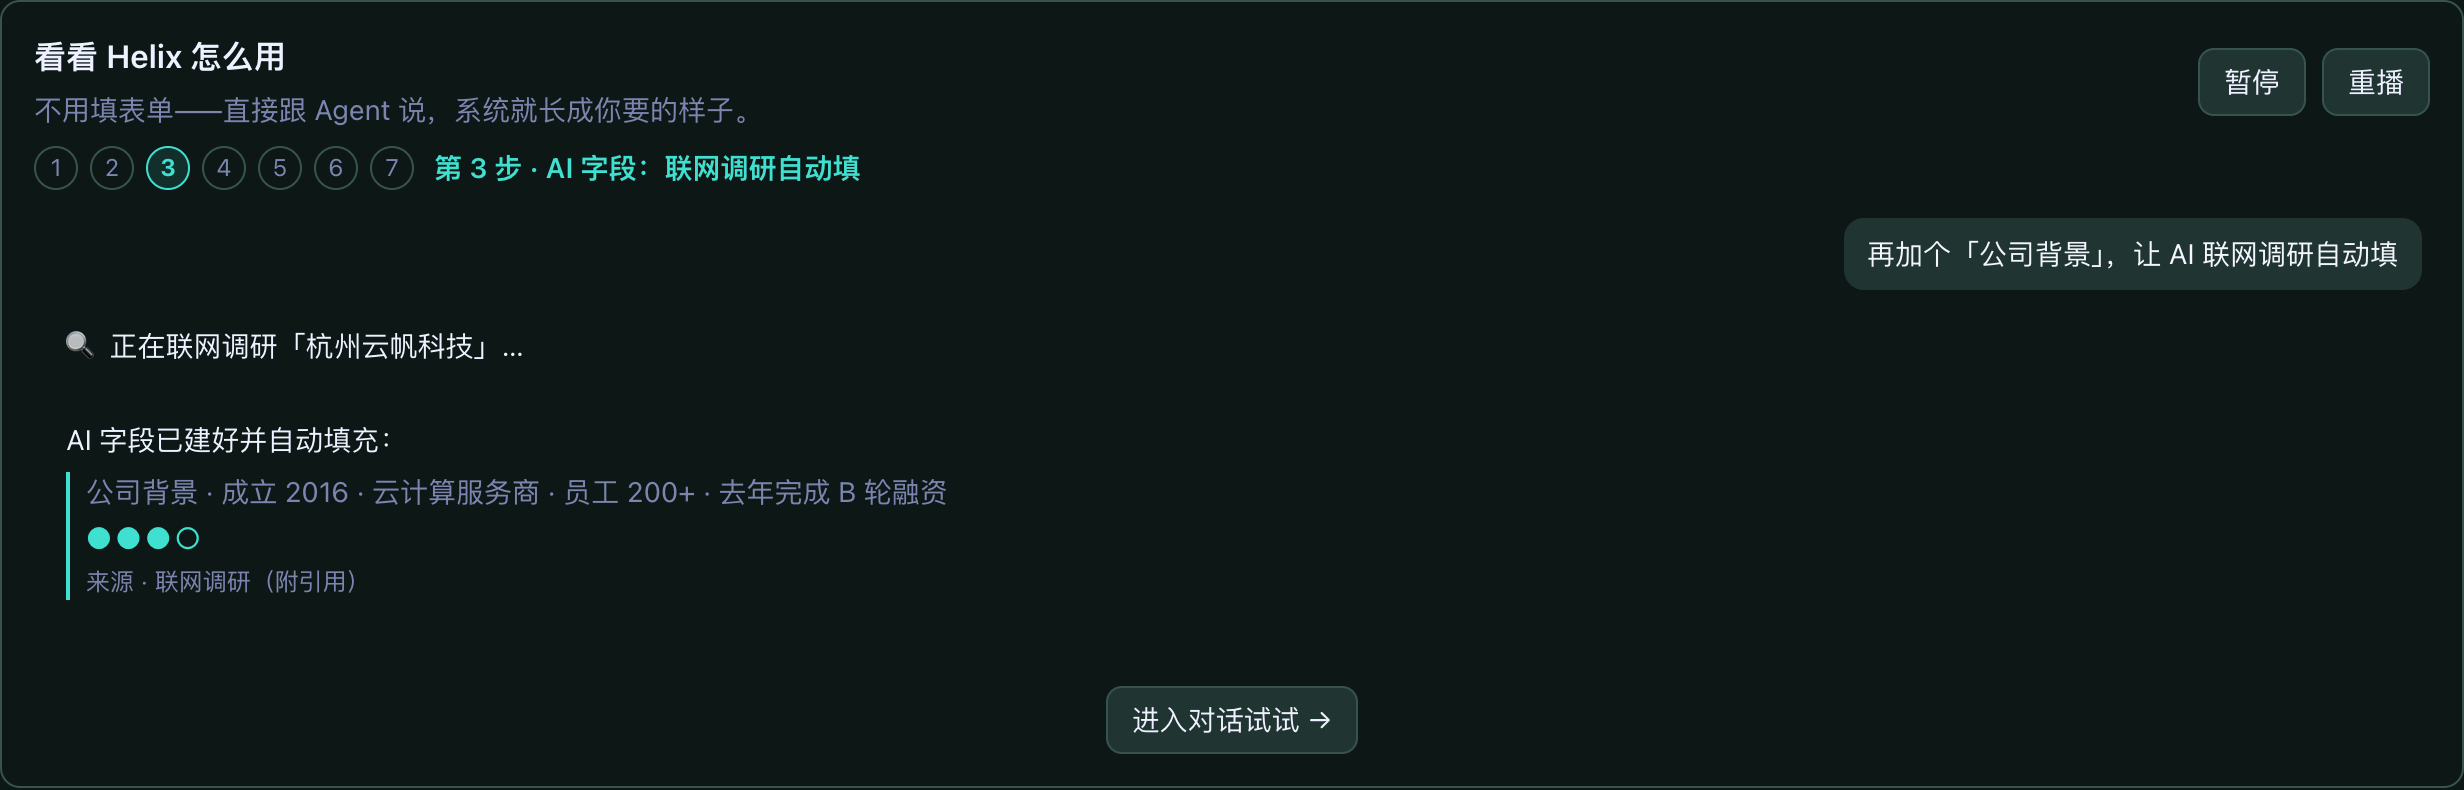
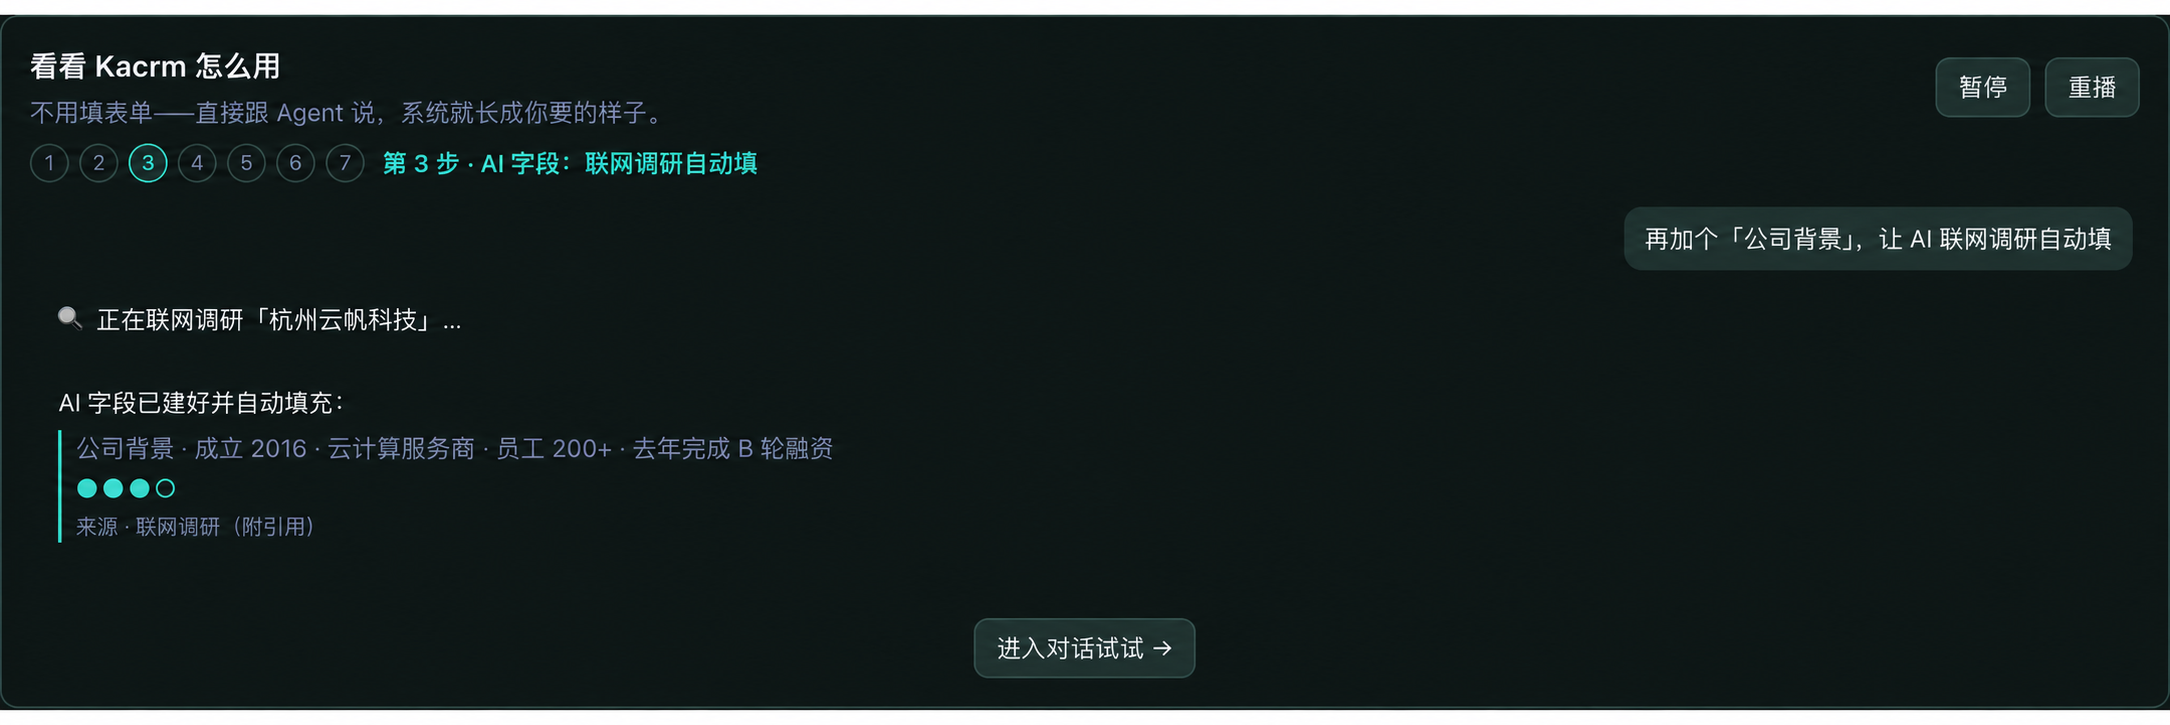
docs: replace legacy branding in user guides and illustrations

diff --git a/docs/user-guide.html b/docs/user-guide.html
@@ -1,4 +1,4 @@
-<!doctype html><html lang="zh-CN"><head><meta charset="utf-8"><title>KaCRM 使用指南</title><style>
+<!doctype html><html lang="zh-CN"><head><meta charset="utf-8"><title>Kacrm 使用指南</title><style>
   @page{size:A4;margin:16mm 15mm}
   *{box-sizing:border-box}
   html{font-family:"Hiragino Sans GB","PingFang SC","Microsoft YaHei",sans-serif;color:#1f2330;font-size:11pt;line-height:1.72}
@@ -53,16 +53,16 @@
       <path d="M62 40 A20 20 0 0 1 18 40" stroke-width="4.3"/><path d="M18 40 A15 15 0 0 1 52 40" stroke-width="3.1"/>
       <path d="M52 40 A10 10 0 0 1 26 40" stroke-width="2.2"/></g></svg></div>
   <div class="kick">■ 为销售型组织打造的下一代 CRM</div>
-  <h1>KaCRM</h1>
+  <h1>Kacrm</h1>
   <div class="t2">使用指南</div>
   <div class="tag">对话即数据 · AI 驱动 · 越用越懂你的销售打法</div>
-  <div class="meta">整理日期 2026-10-13　·　KaCRM 使用指南<br>本手册覆盖核心界面功能:对话、CRM、看板、AI Agent、任务与系统管理</div>
+  <div class="meta">整理日期 2026-10-13　·　Kacrm 使用指南<br>本手册覆盖核心界面功能:对话、CRM、看板、AI Agent、任务与系统管理</div>
 </div>
 
 <!-- 目录 -->
 <div class="sec">
 <h2><span class="n">目录</span></h2>
-<div class="note">本指南整理自项目已有使用手册。截图为历史版本示例，截图中的旧模型、品牌文案及页面细节以当前 KaCRM 实际界面为准。部署与升级请参阅仓库的部署文档；本仓库不附带界面导览视频。</div>
+<div class="note">本指南整理自项目已有使用手册。截图为历史版本示例，截图中的旧模型及页面细节以当前 Kacrm 实际界面为准。部署与升级请参阅仓库的部署文档；本仓库不附带界面导览视频。</div>
 <div class="toc">
   <div><b>1.</b> 产品简介与核心理念</div>
   <div><b>2.</b> 快速开始与界面总览</div>
@@ -80,7 +80,7 @@
 <!-- 1 -->
 <div class="sec pagebreak">
 <h2><span class="n">1</span>产品简介与核心理念</h2>
-<p>KaCRM 是一款<b>会进化的对话式 AI CRM</b>。传统 CRM 为「管理层填报」设计,要求销售把客户关系压缩进冰冷字段;KaCRM 反过来为「销售成交」设计——每位销售拥有专属智能体,用自然语言即可完成记录、跟进与商机管理,系统自动沉淀全渠道沟通为客户资产,并每天主动提醒该跟进谁。</p>
+<p>Kacrm 是一款<b>会进化的对话式 AI CRM</b>。传统 CRM 为「管理层填报」设计,要求销售把客户关系压缩进冰冷字段;Kacrm 反过来为「销售成交」设计——每位销售拥有专属智能体,用自然语言即可完成记录、跟进与商机管理,系统自动沉淀全渠道沟通为客户资产,并每天主动提醒该跟进谁。</p>
 <h3>五大根本转变</h3>
 <table>
   <tr><th style="width:22%">能力</th><th>说明</th></tr>
@@ -91,7 +91,7 @@
   <tr><td class="cyan">⑤ 它会自己上班</td><td>每天清晨自动盯商机、生成跟进清单推送到微信 / 飞书</td></tr>
 </table>
 <div class="fig" style="background:#0A0E27"><img src="../assets/readme/architecture.png"></div>
-<div class="figcap">图 1-1　KaCRM 产品架构:触点层 → AI Agent 核心 → CRM 数据资产 → 洞察与教练</div>
+<div class="figcap">图 1-1　Kacrm 产品架构:触点层 → AI Agent 核心 → CRM 数据资产 → 洞察与教练</div>
 </div>
 
 <!-- 2 -->
@@ -99,7 +99,7 @@
 <h2><span class="n">2</span>快速开始与界面总览</h2>
 <h3>2.1 登录</h3>
 <ol>
-  <li>打开 KaCRM 访问地址,进入登录页。</li>
+  <li>打开 Kacrm 访问地址,进入登录页。</li>
   <li>输入管理员分配的<b>邮箱 / 用户名</b>与<b>密码</b>,点击「登录」。</li>
   <li>首次登录后,系统自动为你创建专属的 AI 工作档案(Profile)。</li>
 </ol>
@@ -108,7 +108,7 @@
 <div class="tip">账号由管理员在「用户管理」中创建并分配角色权限;忘记密码请联系管理员重置。界面右下角账号菜单可随时<b>切换中文 / English</b>。</div>
 <h3>2.2 首次设置向导(3 步)</h3>
 <p>首次登录后,系统会自动带你进入<b>「先完成 3 步设置」向导</b>(也可随时访问 <code>/app/setup</code>)。配好后即可在网页和聊天软件里与你的 Agent 对话。</p>
-<p>向导页顶部有<b>三个标签</b>:<b>「快速设置」</b>(默认,即下方三步)、<b>「对话演示」</b>、<b>「CRM 界面导览」</b>——先在「快速设置」配好,再随时点另两个标签看 KaCRM 怎么用。</p>
+<p>向导页顶部有<b>三个标签</b>:<b>「快速设置」</b>(默认,即下方三步)、<b>「对话演示」</b>、<b>「CRM 界面导览」</b>——先在「快速设置」配好,再随时点另两个标签看 Kacrm 怎么用。</p>
 <div class="fig"><img src="../assets/user-guide/screens/19-setup-wizard.png"></div>
 <div class="figcap">图 2-2　首次设置向导「快速设置」标签:① 模型 ② 通道 ③ 快捷操作(顶部可切「对话演示 / CRM 界面导览」)</div>
 <table>
@@ -128,7 +128,7 @@
 </table>
 <p>后两项是管理操作:<b>没有相应权限时按钮自动隐藏</b>,普通成员通常只看到「设置主题」和「切换语言」。</p>
 <p>页头右上角:「<b>进入对话 →</b>」可随时跳过向导直接开始;有 CRM 权限的用户还会看到「<b>进入 CRM →</b>」,一键直达客户管理主界面。通道也能稍后在「我的 Agent」里补。</p>
-<p><b>「对话演示」标签</b>——自动播放的模拟对话导览,8 步讲完 KaCRM 的核心用法:</p>
+<p><b>「对话演示」标签</b>——自动播放的模拟对话导览,8 步讲完 Kacrm 的核心用法:</p>
 <table>
   <tr><th style="width:14%">步骤</th><th>演示内容</th></tr>
   <tr><td>① 线索转化</td><td>「新增线索:杭州云帆科技、张总,对私有化方案有意向,帮我转成客户和商机」——一句话走完销售漏斗入口:线索 → 客户 + 联系人 + 商机。</td></tr>
@@ -143,7 +143,7 @@
 <p>演示顶部有 <b>7 个章节圆点</b>,点哪一步就跳到哪一步,也可随时「暂停 / 重播」;看完点「进入对话试试 →」即可亲手体验。</p>
 <div class="fig"><img src="../assets/user-guide/screens/20-setup-demo.png"></div>
 <div class="figcap">图 2-3　「对话演示」八步导览(图为第 3 步:AI 字段联网调研自动填,含置信度与来源)</div>
-<p><b>「CRM 界面导览」标签</b>——一段约两分半的<b>真实操作录屏</b>(带中英章节字幕,随界面语言切换),让你在动手前先看到:对话之外,KaCRM 还有一整套顺手的管理界面。八个章节依次演示:</p>
+<p><b>「CRM 界面导览」标签</b>——一段约两分半的<b>真实操作录屏</b>(带中英章节字幕,随界面语言切换),让你在动手前先看到:对话之外,Kacrm 还有一整套顺手的管理界面。八个章节依次演示:</p>
 <table>
   <tr><th style="width:16%">章节</th><th>演示内容</th></tr>
   <tr><td>① 客户列表</td><td>搜索、业务分段、我的 / 团队 / 全部数据范围切换。</td></tr>
@@ -169,17 +169,17 @@
   <tr><td>账号菜单 · 工作</td><td>待我审批、审批中心、待认领消息、记忆库、任务</td></tr>
   <tr><td>账号菜单 · 管理(管理员)</td><td>用户管理、部门管理、角色权限、字段与 Schema、新用户模板、用量统计、导出审计</td></tr>
 </table>
-<p>导航栏顶部的 KaCRM 图标显示你的 Agent 进程状态:<b>绿点</b>=运行正常,<b>红点</b>=未运行(点击进入设置)。</p>
+<p>导航栏顶部的 Kacrm 图标显示你的 Agent 进程状态:<b>绿点</b>=运行正常,<b>红点</b>=未运行(点击进入设置)。</p>
 
 <h3>2.4 不会用?直接问 AI(内置使用助手)</h3>
-<p>KaCRM 内置了<b>「使用助手」</b>——遇到任何"怎么用 / 在哪里 / 为什么"的问题,<b>不用翻手册,直接问 AI 即可</b>。在网页「对话」里,或在你已接入的<b>飞书 / 微信</b>等渠道里,直接发问:</p>
+<p>Kacrm 内置了<b>「使用助手」</b>——遇到任何"怎么用 / 在哪里 / 为什么"的问题,<b>不用翻手册,直接问 AI 即可</b>。在网页「对话」里,或在你已接入的<b>飞书 / 微信</b>等渠道里,直接发问:</p>
 <ul>
   <li>「怎么在看板上加一个图表?」</li>
   <li>「飞书怎么接进来?」</li>
   <li>「改了技能为什么没生效?」</li>
 </ul>
 <p>AI 会即时给出操作步骤。可以把它理解成<b>这份指南的"活版本"</b>:随产品更新、随时可问、所有渠道通用。</p>
-<p>而且它会<b>自我成长</b>:遇到手册暂时没覆盖的问题,它会查证后把通用答案沉淀进自己的知识里——<b>问的人越多、它越全</b>,和 KaCRM 的技能一样越用越懂。</p>
+<p>而且它会<b>自我成长</b>:遇到手册暂时没覆盖的问题,它会查证后把通用答案沉淀进自己的知识里——<b>问的人越多、它越全</b>,和 Kacrm 的技能一样越用越懂。</p>
 </div>
 
 <!-- 3 -->
@@ -323,7 +323,7 @@
 </table>
 <div class="note">可将某渠道设为「主渠道」作为定时推送默认投递地址。微信若长时间无对话,清晨推送可能被平台拦截,建议同时绑定飞书或每天主动发一条消息保活。</div>
 <h4>接入后怎么用(重点)</h4>
-<p>接通后,这个渠道就成了你的「随身 KaCRM」—— 不打开网页也能干活:</p>
+<p>接通后,这个渠道就成了你的「随身 Kacrm」—— 不打开网页也能干活:</p>
 <ul>
   <li><b>直接对话办事</b>:在飞书 / 微信里像聊天一样发指令,如「给腾讯这条商机加条跟进」「本周该跟进哪些客户」「把江南精密阶段改成方案确认」,Agent 当场完成对应 CRM 操作并回复你(高风险动作仍先经你确认)。</li>
   <li><b>客户消息自动归档</b>:客户在该渠道找你,往来对话自动沉淀进对应客户档案、汇入互动时间线,不用手动记。</li>
@@ -349,7 +349,7 @@
 <ul>
   <li><b>① 启用已有</b>:在技能列表把私有 / 组织技能打开,即把它加入 Agent 的可用能力 —— 日常最常用。</li>
   <li><b>② 在对话里让 Agent 现学</b>:直接在网页对话或飞书 / 微信里说「<b>把这个做法记成一个技能</b>」「以后遇到 X 就按 Y 处理,存成技能」,Agent 会自己把它<b>写成一个新技能</b>并加入库中——不用懂任何技术。</li>
-  <li><b>③ 技能自我演化(自动增长)</b>:这是 KaCRM 的核心——Agent 会从你的<b>成功做法里自动沉淀出新的私有技能</b>;你纠正过一次的做法(如「这种情况先打电话」),它会<b>自动改写</b>已有技能,下次自己就这么做。用得越久,技能越懂你。</li>
+  <li><b>③ 技能自我演化(自动增长)</b>:这是 Kacrm 的核心——Agent 会从你的<b>成功做法里自动沉淀出新的私有技能</b>;你纠正过一次的做法(如「这种情况先打电话」),它会<b>自动改写</b>已有技能,下次自己就这么做。用得越久,技能越懂你。</li>
   <li><b>④ 组织技能</b>:管理员把技能加入组织共享库后,全员 Agent 都能看到并启用,实现团队打法复用。</li>
 </ul>
 <div class="tip">技能改动在<b>下次新对话</b>才生效,已有对话不受影响。</div>
@@ -450,7 +450,7 @@
   <tr><td class="cyan">支持时间</td><td>工作日 9:00–18:00 工单与在线支持;紧急故障应急响应</td></tr>
   <tr><td class="cyan">支持渠道</td><td>云市场工单 / 专属客服;重大问题提供远程协助</td></tr>
 </table>
-<p style="color:#8893a4;font-size:9pt;margin-top:18px">© KaCRM CRM · 会进化的 CRM。本手册内容如与最新产品界面不一致,以实际产品为准。</p>
+<p style="color:#8893a4;font-size:9pt;margin-top:18px">© Kacrm CRM · 会进化的 CRM。本手册内容如与最新产品界面不一致,以实际产品为准。</p>
 </div>
 
 <p class="note">本文件为 HTML 打印版快照。最新内容请阅读 <a href="user-guide.md">Markdown 使用指南</a>。</p>

diff --git a/docs/user-guide.en.md b/docs/user-guide.en.md
@@ -1,4 +1,4 @@
-# KaCRM User Guide
+# Kacrm User Guide
 
 **English** · [简体中文](user-guide.md)
 
@@ -21,7 +21,7 @@ This guide was adapted from the existing product manual. Screenshots show earlie
 
 ## Product Overview
 
-KaCRM is a conversational AI CRM that connects customer records, interactions, and sales work with a personal agent. Use natural language to record information, follow up with customers, and manage opportunities. Configured channels and scheduled tasks can bring communication history and follow-up reminders into the same workspace.
+Kacrm is a conversational AI CRM that connects customer records, interactions, and sales work with a personal agent. Use natural language to record information, follow up with customers, and manage opportunities. Configured channels and scheduled tasks can bring communication history and follow-up reminders into the same workspace.
 
 ### Five core ideas
 
@@ -33,7 +33,7 @@ KaCRM is a conversational AI CRM that connects customer records, interactions, a
 | Reusable knowledge | Retain writing preferences, sales playbooks, fields, and skills, and refine them with feedback. |
 | Scheduled assistance | Run configured coaching and follow-up tasks and deliver results through connected channels. |
 
-![KaCRM product architecture: channels, agents, customer data, insights, and customization](../assets/readme/en/architecture.png)
+![Kacrm product architecture: channels, agents, customer data, insights, and customization](../assets/readme/en/architecture.png)
 
 *Figure 1-1. English product architecture illustration.*
 
@@ -41,11 +41,11 @@ KaCRM is a conversational AI CRM that connects customer records, interactions, a
 
 ### 2.1 Sign in
 
-1. Open your KaCRM installation's URL and go to the sign-in page.
+1. Open your Kacrm installation's URL and go to the sign-in page.
 2. Enter the **email or username** and **password** provided by your administrator, then select **Sign in**.
 3. Your first sign-in initializes your personal AI workspace, called a profile.
 
-![KaCRM sign-in page, shown in Chinese](../assets/user-guide/screens/01-login.png)
+![Kacrm sign-in page, shown in Chinese](../assets/user-guide/screens/01-login.png)
 
 *Figure 2-1. Sign-in page.*
 
@@ -428,7 +428,7 @@ Configure defaults for new users: identity in `SOUL.md`, personality, skills, sc
 
 ### Can I keep business data on my infrastructure?
 
-KaCRM supports self-hosting. Business data is stored in the configured database and profile directories. Model providers and messaging platforms may receive data needed for their services; configure them according to your requirements. Permissions, approvals, and audit logs help control business operations.
+Kacrm supports self-hosting. Business data is stored in the configured database and profile directories. Model providers and messaging platforms may receive data needed for their services; configure them according to your requirements. Permissions, approvals, and audit logs help control business operations.
 
 ### Do salespeople need to learn a complex system?
 

diff --git a/assets/user-guide/SOURCES.md b/assets/user-guide/SOURCES.md
@@ -1,3 +1,5 @@
 # 使用指南配图来源
 
-配图复制自来源项目 `hermes-cloud/docs/brand/cloud-market/screens/`，保留原始文件名与内容。主要维护指南为 `docs/user-guide.md`，`docs/user-guide.html` 为打印版快照，文字品牌名称已改为 KaCRM；截图属于历史版本示例。
+配图来源于项目 `hermes-cloud/docs/brand/cloud-market/screens/`。主要维护指南为 `docs/user-guide.md` 与 `docs/user-guide.en.md`，`docs/user-guide.html` 为打印版快照。
+
+指南文字中的产品名称统一为 Kacrm。登录、设置向导、对话演示、新用户模板与聊天截图通过图片编辑工具修正了旧品牌名称；这些图为历史界面的品牌修订示例，不是当前运行版本的实拍截图。其他截图保留来源内容。英文指南还使用 `assets/readme/en/` 中的英文示例图。
